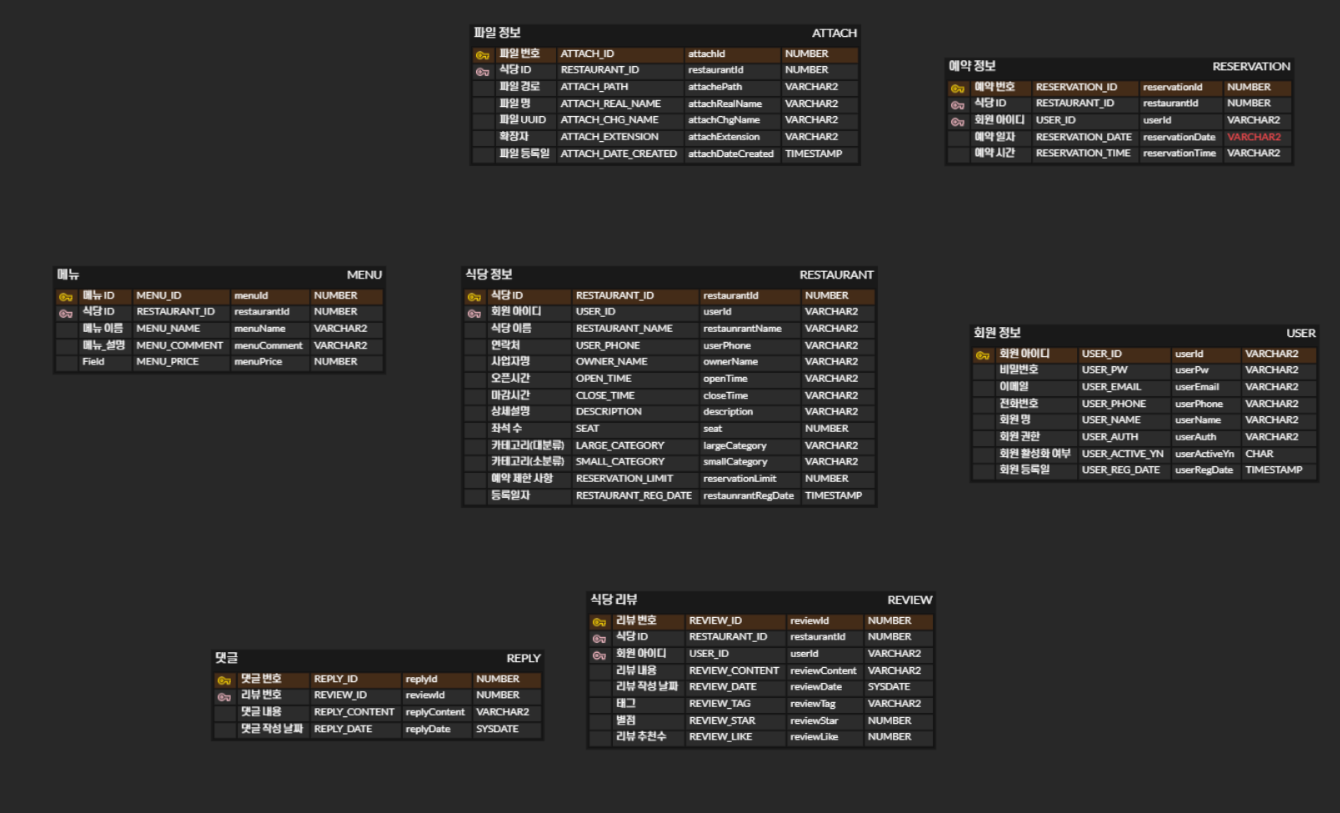
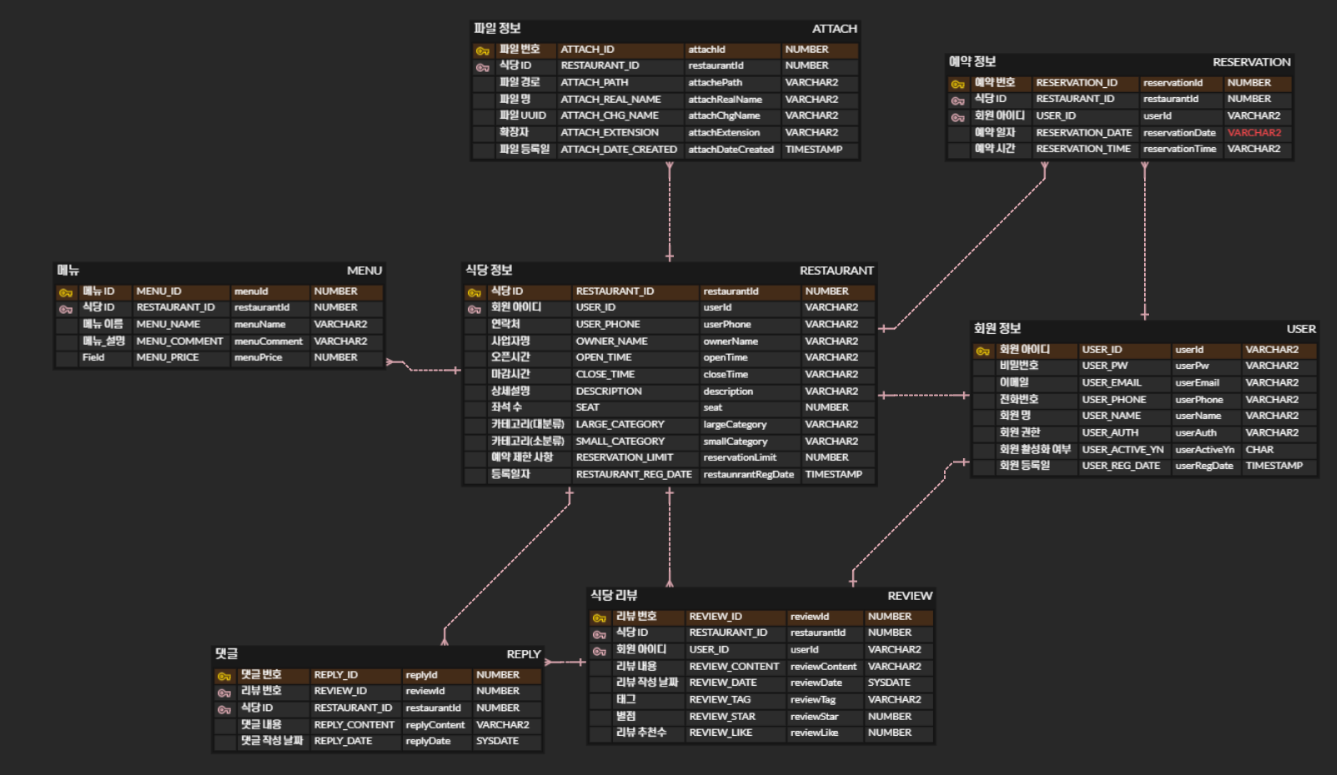
24. 12. 12 Upload

diff --git a/24. 12. 12/README.md b/24. 12. 12/README.md
@@ -1,0 +1,140 @@
+# 24. 12. 12
+
+## Team Project (EAT Platfrom) 
+## [Notion](https://www.notion.so/Eat-Platform-Project-15826c81cd358099bcf8c1a96b72785d)
+
+## Table
+
+### [USER__LIST] - 회원 정보
+
+USER_ID VARCHAR2(50) PRIMARY KEY,
+USER_PW VARCHAR2(50) NOT NULL,
+USER_EMAIL VARCHAR2(200) NOT NULL,
+USER_PHONE VARCHAR2(30) NOT NULL,
+USER_NAME VARCHAR2(20) NOT NULL,
+USER_AUTH VARCHAR2(20) DEFAULT 'ROLE_MEMBER',
+USER_ACTIVE_YN CHAR(10) DEFAULT 'Y',
+USER_REG_DATE TIMESTAMP DEFAULT SYSDATE
+
+### [STORE] - 식당 정보
+
+STORE_ID NUMBER PRIMARY KEY,
+USER_ID VARCHAR(50) NOT NULL,
+STORE_PHONE VARCHAR(30) NOT NULL,
+OWNER_NAME VARCHAR(20) NOT NULL,
+OPEN_TIME NUMBER NOT NULL,
+CLOSE_TIME NUMBER  NOT NULL,
+STORE_COMMNET VARCHAR(500),
+DESCRIPTION VARCHAR(1000),
+STORE_REG_DATE TIMESTAMP DEFAULT SYSDATE
+
+### [MENU] - 메뉴 정보
+
+MENU_ID NUMBER PRIMARY KEY,
+STORE_ID NUMBER NOT NULL,
+MENU_NAME VARCHAR2(100) NOT NULL,
+MENU_PRICE NUMBER NOT NULL,
+MENU_COMMENT VARCHAR2(400),
+MENU_IMG VARCHAR2(4000),
+MENU_REG_DATE TIMESTAMP DEFAULT SYSDATE
+
+### [RESERV] - 예약 정보
+
+RESERV_ID NUMBER NOT NULL,
+STORE_ID NUMBER NOT NULL,
+USER_ID VARCHAR2(50) NOT NULL,
+RESERV_DATE VARCHAR2(100) NOT NULL,
+RESERV_TIME VARCHAR2(100) NOT NULL,
+RESERV_DATE_CREATED TIMESTAMP DEFAULT SYSDATE
+
+### [ATTACH] - 첨부파일
+
+ATTACH_ID NUMBER PRIMARY KEY,
+STORE_ID NUMBER NOT NULL,
+ATTACH_PATH VARCHAR2(12),
+ATTACH_REAL_NAME VARCHAR2(100),
+ATTACH_CHG_NAME VARCHAR2(36),
+ATTACH_EXTENSION VARCHAR2(10),
+ATTACH_DATE_CREATED TIMESTAMP DEFAULT SYSDATE
+
+
+### [REVIEW] - 리뷰
+
+REVIEW_ID NUMBER PRIMARY KEY,
+STORE_ID NUMBER,
+USER_ID VARCHAR2(100),
+REVIEW_STAR NUMBER,
+REVIEW_CONTENT VARCHAR2(1000),
+REVIEW_TAG VARCHAR2(100),
+REVIEW_DATE TIMESTAMP DEFAULT SYSDATE,
+REVIEW_LIKE NUMBER,
+REVIEW_REPORT NUMBER;
+
+### [REPLY] - 댓글
+
+REPLY_ID NUMBER PRIMARY KEY,
+REVIEW_ID NUMBER,
+STORE_ID NUMBER,
+REPLY_CONTENT VARCHAR2(1000),
+REPLY_DATE TIMESTAMP DEFAULT SYSDATE;
+
+## SEQUNCE
+
+### [STORE_SEQ]
+
+MINVALUE 1 MAXVALUE 10000 
+INCREMENT BY 1 
+START WITH 1 
+NOCACHE  
+NOORDER  
+NOCYCLE;
+
+### [RESERV_SEQ]
+
+MINVALUE 1 MAXVALUE 10000 
+INCREMENT BY 1 
+START WITH 1 
+NOCACHE  
+NOORDER  
+NOCYCLE;
+
+### [ATTACH_SEQ]
+
+MINVALUE 1 MAXVALUE 10000 
+INCREMENT BY 1 
+START WITH 1 
+NOCACHE  
+NOORDER  
+NOCYCLE;
+
+### [MENU_SEQ]
+
+MINVALUE 1 MAXVALUE 10000 
+INCREMENT BY 1 
+START WITH 1 
+NOCACHE  
+NOORDER  
+NOCYCLE;
+
+### [REVIEW_SEQ]
+
+START WITH 1
+MAXVALUE 100000
+INCREMENT BY 1
+NOCACHE
+NOCYCLE
+NOORDER;
+
+### [REPLY_SEQ]
+
+START WITH 1
+MAXVALUE 10000
+INCREMENT BY 1
+NOCACHE
+NOCYCLE
+NOORDER;
+
+## Git Repository 생성 및 설정
+
+![Git Repository](https://github.com/hsukim001/eatPlatform-springLegacy)
+    

diff --git a/24. 12. 11/Team minutes.md b/24. 12. 11/Team minutes.md
@@ -23,6 +23,7 @@
 ### 사이트 관리자
 1) 등록된 게시글 삭제할 수 있다.
 2) 등록된 게시글의 리뷰를 삭제할 수 있다.
+3) 신고된 게시글을 조회하여 신고 취소/ 리뷰 삭제가 가능하다.
 
 
 ### 업장 관리
@@ -93,4 +94,5 @@
 ### TABLE
 회원 관리/ 업장 관리/ 메뉴/ 리뷰/ 예약 관리/ *주소
 
-![ERD](https://github.com/user-attachments/assets/c4ea8095-a73b-4c52-a1dd-fd85bbf1c123)
+![ERD](https://github.com/user-attachments/assets/a15ffa43-3874-4918-8859-819dc980c88a)
+    
